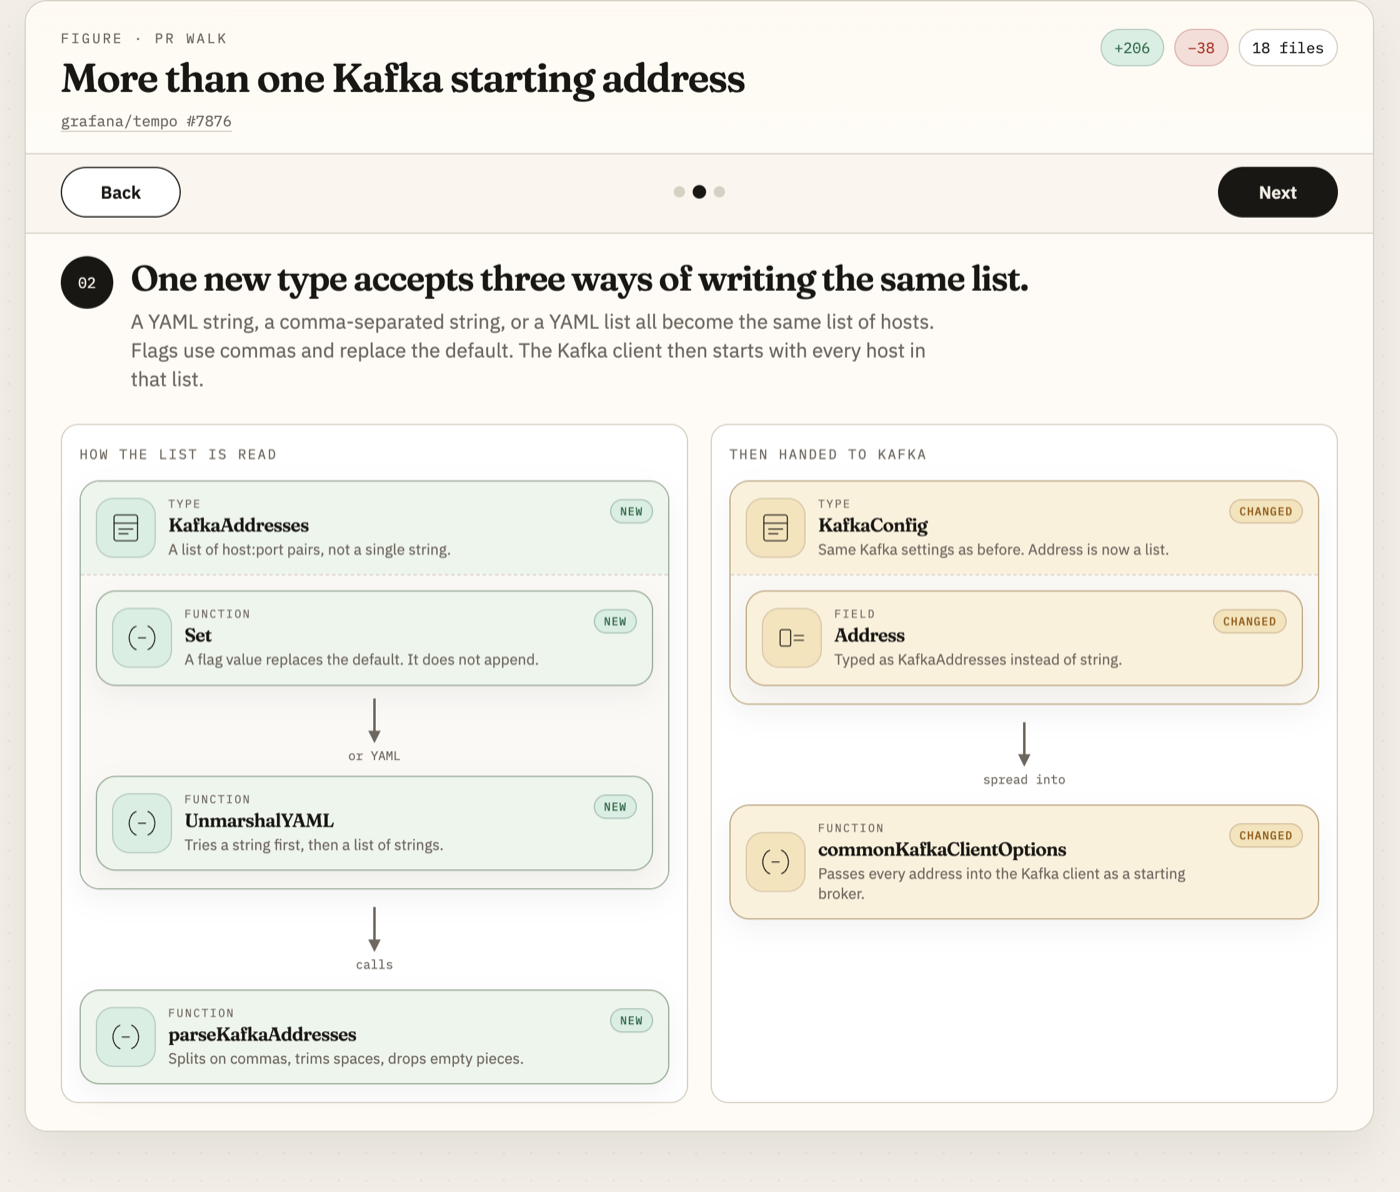
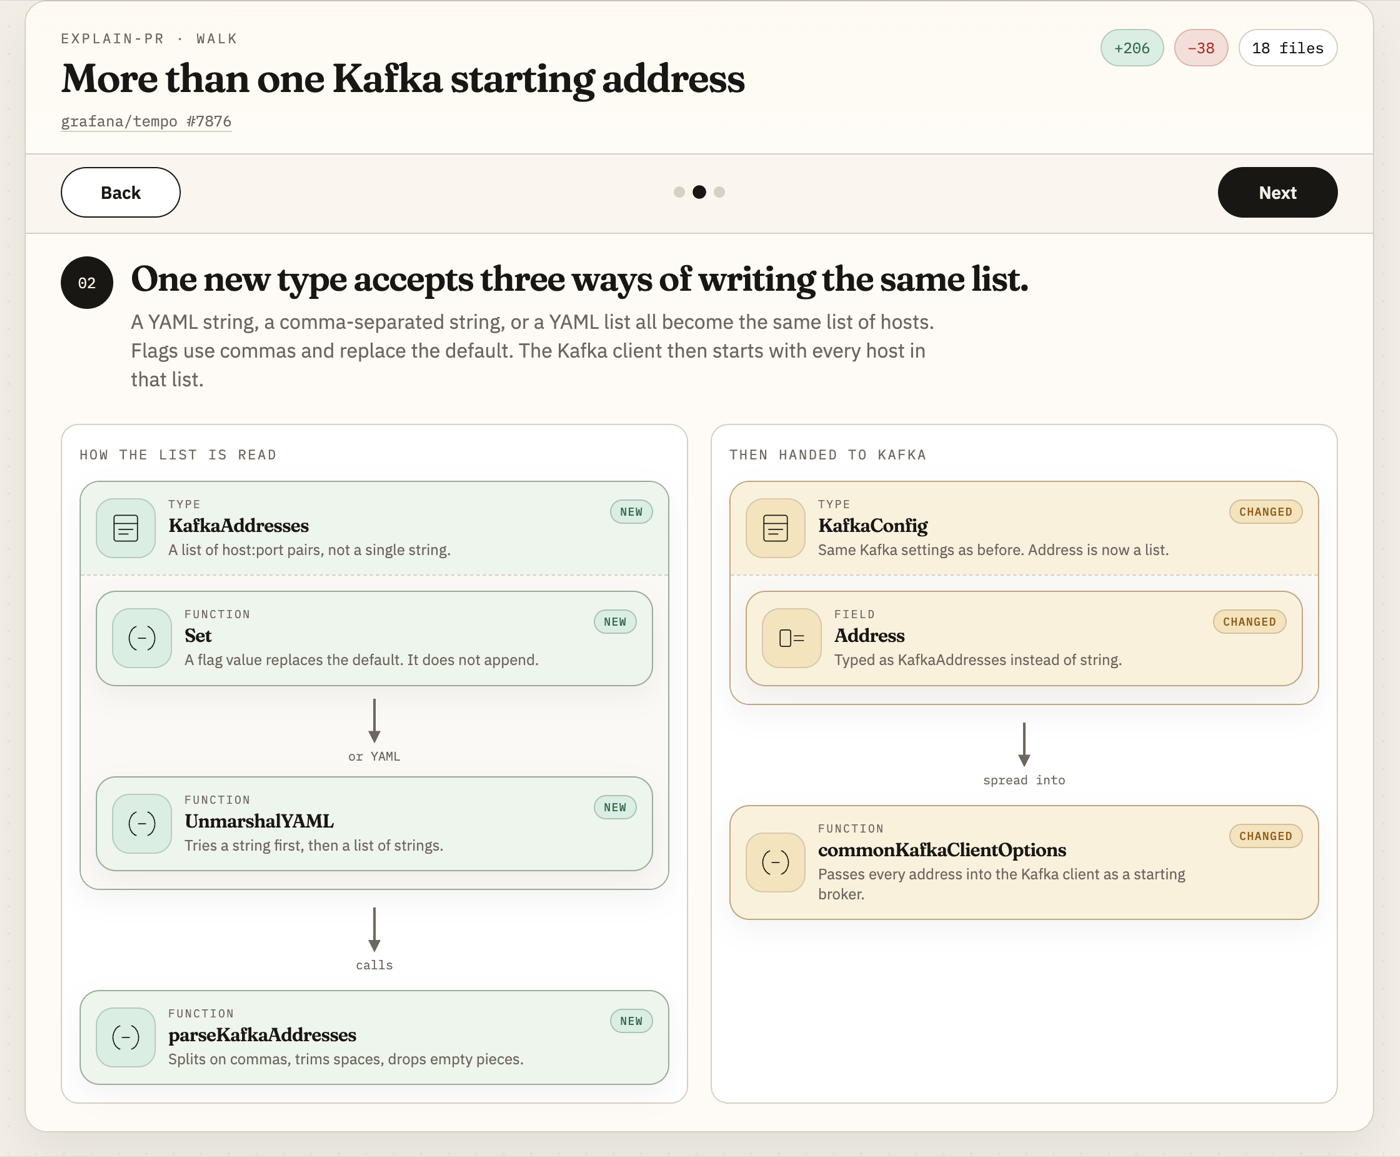
Call the project explain-pr everywhere and credit Blake Smith's review hierarchy.
Drop the old Figure name from walks and docs, and say the skill is for aligning the team's mental model first.

diff --git a/index.html b/index.html
@@ -3,12 +3,12 @@
   <head>
     <meta charset="utf-8" />
     <meta name="viewport" content="width=device-width, initial-scale=1" />
-    <title>Figure — a visual language for pull requests</title>
+    <title>explain-pr — a visual language for pull requests</title>
     <link rel="stylesheet" href="figure.css" />
   </head>
   <body>
     <main class="site">
-      <div class="wordmark">Figure</div>
+      <div class="wordmark">explain-pr</div>
       <section class="hero">
         <h1>Explain the change,<br />not the diff.</h1>
         <p>
@@ -22,9 +22,9 @@
         <div class="fig-shell">
           <header class="fig-mast">
             <div>
-              <p class="fig-kicker">Figure · PR walk</p>
+              <p class="fig-kicker">explain-pr · walk</p>
               <h1>What this library is for</h1>
-              <div class="fig-repo">Figure · demo walk</div>
+              <div class="fig-repo">explain-pr · demo walk</div>
             </div>
           </header>
           <input type="radio" name="intro" id="s1" checked>

diff --git a/catalog.html b/catalog.html
@@ -3,13 +3,13 @@
   <head>
     <meta charset="utf-8" />
     <meta name="viewport" content="width=device-width, initial-scale=1" />
-    <title>Figure catalog</title>
+    <title>explain-pr catalog</title>
     <link rel="stylesheet" href="figure.css" />
   </head>
   <body>
     <main class="site">
       <a class="back" href="index.html">← Gallery</a>
-      <div class="wordmark" style="margin-top: 18px">Figure</div>
+      <div class="wordmark" style="margin-top: 18px">explain-pr</div>
       <section class="hero">
         <h1>Catalog</h1>
         <p>Each kind has its own mark. Walks are one short sequence — pick the components that fit the PR. Open a card to type questions and copy a prompt for your coding agent.</p>

diff --git a/walks/tailwind-oxide.html b/walks/tailwind-oxide.html
@@ -14,7 +14,7 @@
       <div class="fig-shell">
         <header class="fig-mast">
           <div>
-            <p class="fig-kicker">Figure · PR walk</p>
+            <p class="fig-kicker">explain-pr · walk</p>
             <h1>Oxide scanner on large repos</h1>
             <div class="fig-repo"><a href="https://github.com/tailwindlabs/tailwindcss/pull/19632">tailwindlabs/tailwindcss #19632</a></div>
             <p class="fig-inspect-hint">Three views of the same PR. Click a component, type a question, copy the prompt into your coding agent.</p>

diff --git a/walks/next-ppr.html b/walks/next-ppr.html
@@ -14,7 +14,7 @@
       <div class="fig-shell">
         <header class="fig-mast">
           <div>
-            <p class="fig-kicker">Figure · PR walk</p>
+            <p class="fig-kicker">explain-pr · walk</p>
             <h1>Partial fallback route shells</h1>
             <div class="fig-repo"><a href="https://github.com/vercel/next.js/pull/69282">vercel/next.js #69282</a></div>
             <p class="fig-inspect-hint">Three views of the same PR. Click a component, type a question, copy the prompt into your coding agent.</p>

diff --git a/walks/react-compiler.html b/walks/react-compiler.html
@@ -14,7 +14,7 @@
       <div class="fig-shell">
         <header class="fig-mast">
           <div>
-            <p class="fig-kicker">Figure · PR walk</p>
+            <p class="fig-kicker">explain-pr · walk</p>
             <h1>Port React Compiler to Rust</h1>
             <div class="fig-repo"><a href="https://github.com/facebook/react/pull/36173">facebook/react #36173</a></div>
             <p class="fig-inspect-hint">Three views of the same PR. Click a component, type a question, copy the prompt into your coding agent.</p>

diff --git a/walks/vite-environments.html b/walks/vite-environments.html
@@ -14,7 +14,7 @@
       <div class="fig-shell">
         <header class="fig-mast">
           <div>
-            <p class="fig-kicker">Figure · PR walk</p>
+            <p class="fig-kicker">explain-pr · walk</p>
             <h1>Vite 6 Environment API</h1>
             <div class="fig-repo"><a href="https://github.com/vitejs/vite/pull/16471">vitejs/vite #16471</a></div>
             <p class="fig-inspect-hint">Three views of the same PR. Click a component, type a question, copy the prompt into your coding agent.</p>

diff --git a/walks/mimir-blocks-admin.html b/walks/mimir-blocks-admin.html
@@ -14,7 +14,7 @@
       <div class="fig-shell">
         <header class="fig-mast">
           <div>
-            <p class="fig-kicker">Figure · PR walk</p>
+            <p class="fig-kicker">explain-pr · walk</p>
             <h1>A faster blocks page for big tenants</h1>
             <div class="fig-repo"><a href="https://github.com/grafana/mimir/pull/16549">grafana/mimir #16549</a></div>
           </div>

diff --git a/walks/tempo-kafka-brokers.html b/walks/tempo-kafka-brokers.html
@@ -14,7 +14,7 @@
       <div class="fig-shell">
         <header class="fig-mast">
           <div>
-            <p class="fig-kicker">Figure · PR walk</p>
+            <p class="fig-kicker">explain-pr · walk</p>
             <h1>More than one Kafka starting address</h1>
             <div class="fig-repo"><a href="https://github.com/grafana/tempo/pull/7876">grafana/tempo #7876</a></div>
           </div>

diff --git a/.cursor/skills/explain-pr/SKILL.md b/.cursor/skills/explain-pr/SKILL.md
@@ -3,7 +3,7 @@ name: explain-pr
 description: Use when asked to explain a PR, summarize code changes, show data flow, assess blast radius, or generate an HTML visualization of what a diff does.
 ---
 
-# Explain a PR with Figure
+# Explain a PR
 
 Produce **one short HTML walk** of the PR. Not three parallel views. The author should understand the change in a few Next clicks.
 
@@ -54,7 +54,7 @@ No view tabs. Radios `#s1`–`s5` on the deck. Put **Back / dots / Next above th
   <div class="fig-shell">
     <header class="fig-mast">
       <div>
-        <p class="fig-kicker">Figure · PR walk</p>
+        <p class="fig-kicker">explain-pr · walk</p>
         <h1>Plain-English title</h1>
         <div class="fig-repo"><a href="PR_URL">org/repo #123</a></div>
       </div>

diff --git a/skills/explain-pr/SKILL.md b/skills/explain-pr/SKILL.md
@@ -3,7 +3,7 @@ name: explain-pr
 description: Use when asked to explain a PR, summarize code changes, show data flow, assess blast radius, or generate an HTML visualization of what a diff does.
 ---
 
-# Explain a PR with Figure
+# Explain a PR
 
 Produce **one short HTML walk** of the PR. Not three parallel views. The author should understand the change in a few Next clicks.
 
@@ -54,7 +54,7 @@ No view tabs. Radios `#s1`–`s5` on the deck. Put **Back / dots / Next above th
   <div class="fig-shell">
     <header class="fig-mast">
       <div>
-        <p class="fig-kicker">Figure · PR walk</p>
+        <p class="fig-kicker">explain-pr · walk</p>
         <h1>Plain-English title</h1>
         <div class="fig-repo"><a href="PR_URL">org/repo #123</a></div>
       </div>

diff --git a/README.md b/README.md
@@ -1,4 +1,6 @@
-# Figure
+# explain-pr
+
+The shape of this skill follows [Blake Smith](https://blakesmith.me/)'s [code review hierarchy of needs](https://blakesmith.me/2015/02/09/code-review-essentials-for-software-teams.html): the most important job of a review is to keep the team's mental model of the system aligned as it changes. Catching bugs and debating design sit below that. Style is last. A walk is for that first job — what changed, how it works now, and what is in the blast.
 
 A visual language for explaining pull requests. **One CSS file, one small JS file for the ask-prompt box. No npm, no build.**
 
